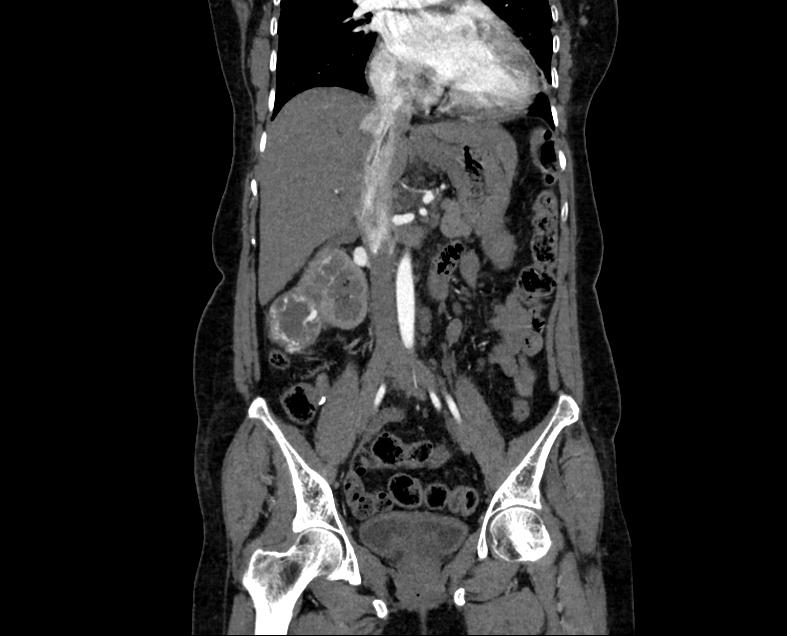
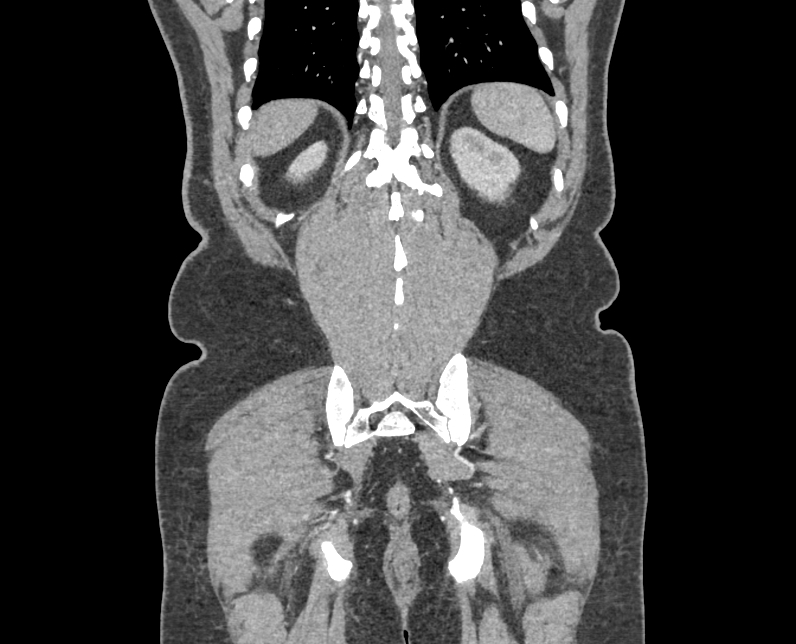
deploy

diff --git a/src/cnnClassifier/pipeline/prediction.py b/src/cnnClassifier/pipeline/prediction.py
@@ -7,7 +7,7 @@ class PredictionPipeline:
         self.filename = filename
     
     def predict(self):
-        model = tf.keras.models.load_model(os.path.join("artifacts", "training", "model.h5"))
+        model = tf.keras.models.load_model(os.path.join("model", "model.h5"))
         imagename = self.filename
         test_image = tf.keras.preprocessing.image.load_img(imagename, target_size = (224, 224))
         test_image = tf.keras.preprocessing.image.img_to_array(test_image)

diff --git a/README.md b/README.md
@@ -1,5 +1,5 @@
-# kidney-disease-classification-deep-learning-project
-Project that classifies kidney diseases
+# Kidney-Disease-Classification-MLflow-DVC
+
 
 ## Workflows
 
@@ -8,23 +8,21 @@ Project that classifies kidney diseases
 3. Update params.yaml
 4. Update the entity
 5. Update the configuration manager in src config
-6. update the components
-7. update the pipeline
+6. Update the components
+7. Update the pipeline 
 8. Update the main.py
-9. update the dvc.yaml
+9. Update the dvc.yaml
 10. app.py
 
 # How to run?
- 
 ### STEPS:
 
-clone the repository
+Clone the repository
 
 ```bash
-https://github.com/spacdev/kidney-disease-classification-deep-learning-project
+https://github.com/krishnaik06/Kidney-Disease-Classification-Deep-Learning-Project
 ```
-
-### STEP 1: Create a conda environment after opening the repository
+### STEP 01- Create a conda environment after opening the repository
 
 ```bash
 conda create -n cnncls python=3.8 -y
@@ -34,7 +32,151 @@ conda create -n cnncls python=3.8 -y
 conda activate cnncls
 ```
 
-### STEP 2: Install the requirements 
+
+### STEP 02- install the requirements
 ```bash
 pip install -r requirements.txt
 ```
+
+```bash
+# Finally run the following command
+python app.py
+```
+
+Now,
+```bash
+open up you local host and port
+```
+
+
+
+
+
+
+## MLflow
+
+- [Documentation](https://mlflow.org/docs/latest/index.html)
+
+- [MLflow tutorial](https://youtu.be/qdcHHrsXA48?si=bD5vDS60akNphkem)
+
+##### cmd
+- mlflow ui
+
+### dagshub
+[dagshub](https://dagshub.com/)
+
+MLFLOW_TRACKING_URI=https://dagshub.com/entbappy/Kidney-Disease-Classification-MLflow-DVC.mlflow \
+MLFLOW_TRACKING_USERNAME=entbappy \
+MLFLOW_TRACKING_PASSWORD=6824692c47a369aa6f9eac5b10041d5c8edbcef0 \
+python script.py
+
+Run this to export as env variables:
+
+```bash
+
+export MLFLOW_TRACKING_URI=https://dagshub.com/entbappy/Kidney-Disease-Classification-MLflow-DVC.mlflow
+
+export MLFLOW_TRACKING_USERNAME=entbappy 
+
+export MLFLOW_TRACKING_PASSWORD=6824692c47a369aa6f9eac5b10041d5c8edbcef0
+
+```
+
+
+### DVC cmd
+
+1. dvc init
+2. dvc repro
+3. dvc dag
+
+
+## About MLflow & DVC
+
+MLflow
+
+ - Its Production Grade
+ - Trace all of your expriements
+ - Logging & taging your model
+
+
+DVC 
+
+ - Its very lite weight for POC only
+ - lite weight expriements tracker
+ - It can perform Orchestration (Creating Pipelines)
+
+
+
+# AWS-CICD-Deployment-with-Github-Actions
+
+## 1. Login to AWS console.
+
+## 2. Create IAM user for deployment
+
+	#with specific access
+
+	1. EC2 access : It is virtual machine
+
+	2. ECR: Elastic Container registry to save your docker image in aws
+
+
+	#Description: About the deployment
+
+	1. Build docker image of the source code
+
+	2. Push your docker image to ECR
+
+	3. Launch Your EC2 
+
+	4. Pull Your image from ECR in EC2
+
+	5. Lauch your docker image in EC2
+
+	#Policy:
+
+	1. AmazonEC2ContainerRegistryFullAccess
+
+	2. AmazonEC2FullAccess
+
+	
+## 3. Create ECR repo to store/save docker image
+    - Save the URI: 784198399410.dkr.ecr.us-east-1.amazonaws.com/kidney
+	
+## 4. Create EC2 machine (Ubuntu) 
+
+## 5. Open EC2 and Install docker in EC2 Machine:
+	
+	
+	#optinal
+
+	sudo apt-get update -y
+
+	sudo apt-get upgrade
+	
+	#required
+
+	curl -fsSL https://get.docker.com -o get-docker.sh
+
+	sudo sh get-docker.sh
+
+	sudo usermod -aG docker ubuntu
+
+	newgrp docker
+	
+# 6. Configure EC2 as self-hosted runner:
+    setting>actions>runner>new self hosted runner> choose os> then run command one by one
+
+
+# 7. Setup github secrets:
+
+    AWS_ACCESS_KEY_ID=
+
+    AWS_SECRET_ACCESS_KEY=
+
+    AWS_REGION = us-east-1
+
+    AWS_ECR_LOGIN_URI = demo>>  566373416292.dkr.ecr.ap-south-1.amazonaws.com
+
+    ECR_REPOSITORY_NAME = simple-app
+
+
